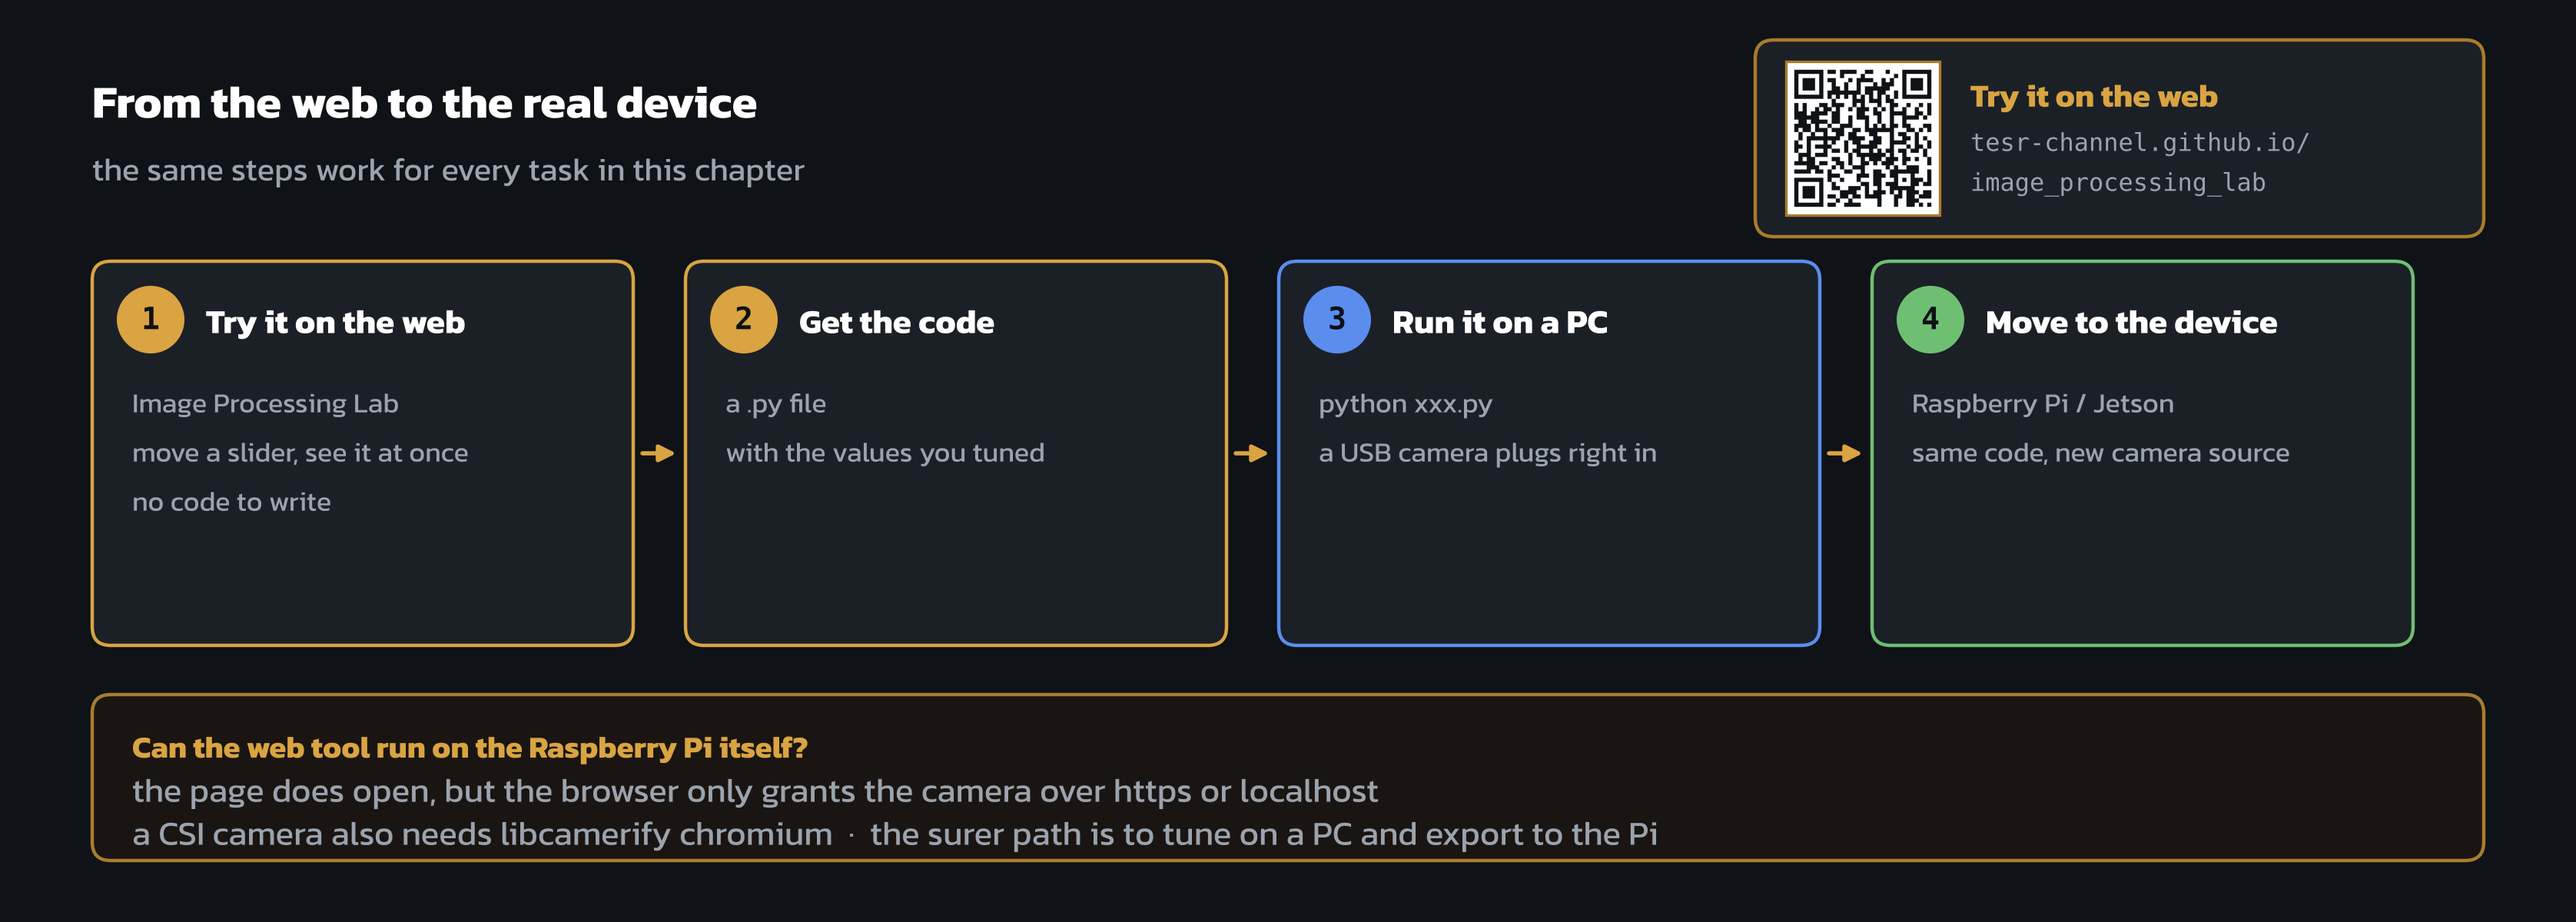
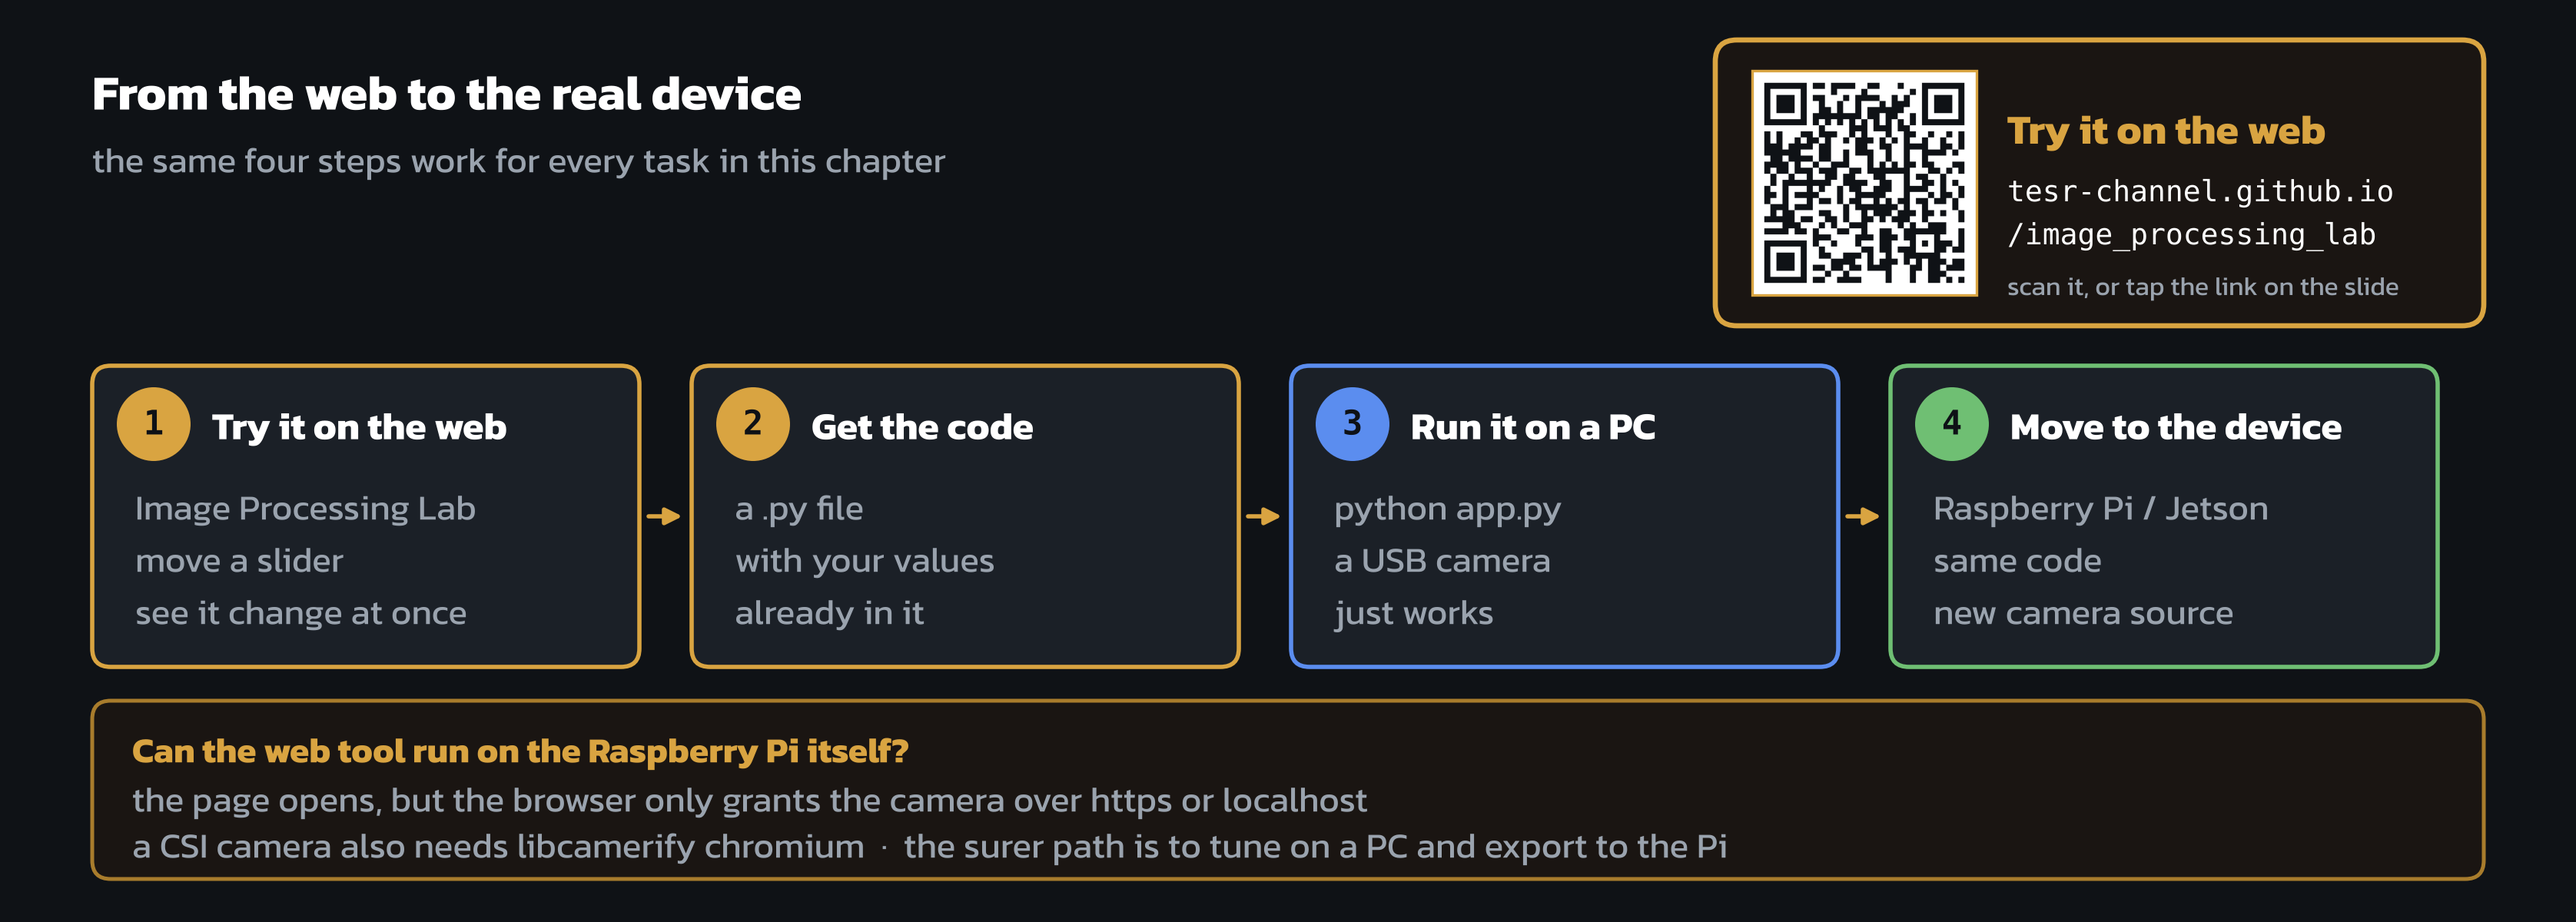
slide_assets: make the way into the Lab impossible to miss
The QR was small and tucked into a corner, and the step cards sat at 18px
with most of each card empty - the room holds adults as well as students,
and Anon could not read it comfortably.

QR is now 146px inside a gold-bordered call-out with the URL at 19px and a
line telling the reader they can scan it or tap the slide. Card titles go
22 -> 25px and bodies 18 -> 23px, with the copy shortened so the larger
type still fits on one line each.

QR re-decoded out of the finished PNG to confirm it still scans.

Claude-Session: https://claude.ai/code/session_01L2BgT3gVYruUssRpoAW2J5

Changed region(s): [[0.031, 0.0308, 0.9618, 0.7708], [0.031, 0.8017, 0.9618, 0.9558], [0.031, 0.0925, 0.3723, 0.2158]]

diff --git a/slide_assets/src/ip_panels2.py b/slide_assets/src/ip_panels2.py
@@ -297,50 +297,60 @@ def panel_codes():
 
 # ------------------------------------- 6. web -> laptop -> edge device
 def panel_path():
+    """Web -> PC -> device, with a way in that is hard to miss.
+
+    Type sizes here are deliberately large: the room holds adults as well as
+    students, and the previous version left most of each card empty while the
+    body text sat at 18px.
+    """
     W, H = 1676, 600
     f, a = fig(W, H)
-    t(a, 60, 66, "From the web to the real device", px=30, c=WHITE, w="bold")
-    t(a, 60, 110, "the same steps work for every task in this chapter", px=21, c=MUTED)
+    t(a, 60, 60, "From the web to the real device", px=32, c=WHITE, w="bold")
+    t(a, 60, 104, "the same four steps work for every task in this chapter",
+      px=23, c=MUTED)
 
-    # a scannable way in, so the link still works from a printed handout or a
-    # PDF opened on a phone. The slide carries the same URL as a live
-    # hyperlink for anyone reading on a laptop.
+    # The scannable way in. Big on purpose - from the back of a room, or from
+    # a printed handout, this is the only thing that has to be readable.
     import segno
     qr_path = "/tmp/lab_qr.png"
-    segno.make(LAB_URL, error="m").save(qr_path, scale=12, border=2,
+    segno.make(LAB_URL, error="m").save(qr_path, scale=14, border=2,
                                         dark="#0F1216", light="#FFFFFF")
-    bx(a, 1142, 26, 474, 128, fc=PANEL, ec=GOLD_D, lw=1.6, r=12, z=5)
-    put_img(a, cv2.imread(qr_path), 1162, 40, 100, 100, border=GOLD_D)
-    t(a, 1282, 62, "Try it on the web", px=21, c=GOLD, w="bold", z=8)
-    t(a, 1282, 94, "tesr-channel.github.io/", px=16, c=MUTED, z=8, fam=MONO)
-    t(a, 1282, 120, "image_processing_lab", px=16, c=MUTED, z=8, fam=MONO)
+    bx(a, 1116, 26, 500, 186, fc="#1A1512", ec=GOLD, lw=2.4, r=14, z=5)
+    put_img(a, cv2.imread(qr_path), 1140, 46, 146, 146, border=GOLD)
+    t(a, 1306, 84, "Try it on the web", px=27, c=GOLD, w="bold", z=8)
+    t(a, 1306, 126, "tesr-channel.github.io", px=19, c=WHITE, z=8, fam=MONO)
+    t(a, 1306, 154, "/image_processing_lab", px=19, c=WHITE, z=8, fam=MONO)
+    t(a, 1306, 186, "scan it, or tap the link on the slide", px=17, c=MUTED, z=8)
 
     steps = [
-        ("1", "Try it on the web", "Image Processing Lab\nmove a slider, see it at once\nno code to write", GOLD),
-        ("2", "Get the code", "a .py file\nwith the values you tuned", GOLD),
-        ("3", "Run it on a PC", "python xxx.py\na USB camera plugs right in", BLUE),
-        ("4", "Move to the device", "Raspberry Pi / Jetson\nsame code, new camera source", GREEN),
+        ("1", "Try it on the web", ["Image Processing Lab", "move a slider",
+                                    "see it change at once"], GOLD),
+        ("2", "Get the code", ["a .py file", "with your values", "already in it"], GOLD),
+        ("3", "Run it on a PC", ["python app.py", "a USB camera", "just works"], BLUE),
+        ("4", "Move to the device", ["Raspberry Pi / Jetson", "same code",
+                                     "new camera source"], GREEN),
     ]
-    bw, gap = 352, 34
+    bw, gap = 356, 34
     x = 60
     for num, title, body, col in steps:
-        bx(a, x, 170, bw, 250, fc=PANEL, ec=col, lw=1.6, r=12, z=5)
-        a.add_patch(Circle((x + 38, 208), 22, fc=col, ec="none", zorder=7))
-        t(a, x + 38, 209, num, px=20, c="#0E1116", ha="center", w="bold", z=8, fam=MONO)
-        t(a, x + 74, 209, title, px=22, c=WHITE, w="bold", z=8)
-        for i, line in enumerate(body.split("\n")):
-            t(a, x + 26, 262 + i * 32, line, px=18, c=MUTED, z=8)
+        bx(a, x, 238, bw, 196, fc=PANEL, ec=col, lw=2.0, r=12, z=5)
+        a.add_patch(Circle((x + 40, 276), 24, fc=col, ec="none", zorder=7))
+        t(a, x + 40, 277, num, px=22, c="#0E1116", ha="center", w="bold", z=8,
+          fam=MONO)
+        t(a, x + 78, 277, title, px=25, c=WHITE, w="bold", z=8)
+        for i, line in enumerate(body):
+            t(a, x + 28, 330 + i * 34, line, px=23, c=MUTED, z=8)
         if x + bw + gap < 1600:
-            arrow(a, x + bw + 6, 295, x + bw + gap - 6, 295)
+            arrow(a, x + bw + 6, 336, x + bw + gap - 6, 336)
         x += bw + gap
 
-    bx(a, 60, 452, 1556, 108, fc="#1A1512", ec=GOLD_D, lw=1.6, r=12, z=5)
-    t(a, 86, 486, "Can the web tool run on the Raspberry Pi itself?", px=20, c=GOLD, w="bold", z=7)
-    t(a, 86, 514, "the page does open, but the browser only grants the camera over https or localhost",
-      px=22, c=MUTED, z=7)
-    # 542, not 548: at 22px the descenders of the last line sat on the box border
-    t(a, 86, 542, "a CSI camera also needs libcamerify chromium  ·  the surer path is to tune on a PC and export to the Pi",
-      px=22, c=MUTED, z=7)
+    bx(a, 60, 456, 1556, 116, fc="#1A1512", ec=GOLD_D, lw=1.8, r=12, z=5)
+    t(a, 86, 488, "Can the web tool run on the Raspberry Pi itself?", px=23,
+      c=GOLD, w="bold", z=7)
+    t(a, 86, 520, "the page opens, but the browser only grants the camera over https or localhost",
+      px=23, c=MUTED, z=7)
+    t(a, 86, 550, "a CSI camera also needs libcamerify chromium  ·  the surer path is to tune on a PC and export to the Pi",
+      px=23, c=MUTED, z=7)
     f.savefig(OUT + "ip_path.png", dpi=100, facecolor=BG); plt.close(f)
     print("ip_path.png")
 
